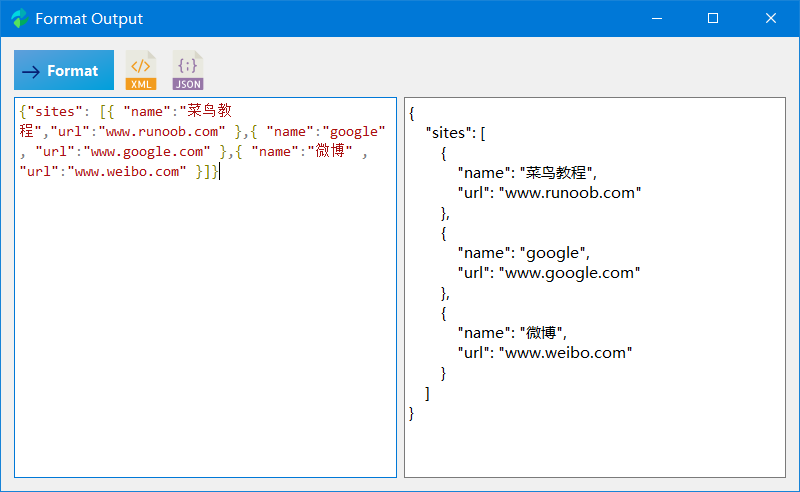
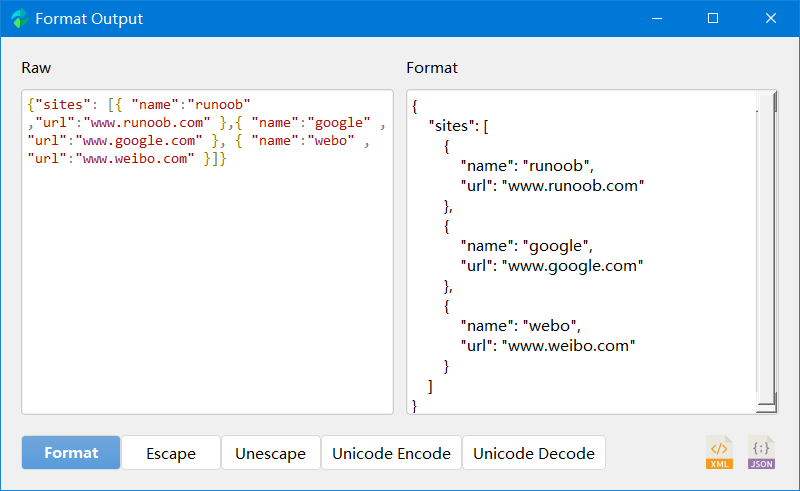
Add xmltodict: Python module that makes working with XML feel like you are working with JSON

diff --git a/ui/resources/html/code.html b/ui/resources/html/code.html
@@ -2,8 +2,8 @@
 <!DOCTYPE html>
 <html lang="en">
 <head>
-    <script type="text/javascript" src="resources/html/google-code-prettify/prettify.js"></script>
-    <link rel="stylesheet" type="text/css" href="resources/html/google-code-prettify/skins/desert.css" />
+    <script type="text/javascript" src="google-code-prettify/prettify.js"></script>
+    <link rel="stylesheet" type="text/css" href="google-code-prettify/skins/desert.css" />
 </head>
 <body onload="PR.prettyPrint()">
     <pre class="prettyprint">

diff --git a/main.py b/main.py
@@ -59,6 +59,7 @@ import peid
 from opensource.apk import *
 import html
 import webbrowser
+import xmltodict
 
 CRYPT = 1
 CODE = 2
@@ -476,7 +477,7 @@ class MainUi(QtWidgets.QMainWindow):
                 _input = _input.encode("utf-8")
                 Log.info("input: %s" % _input)
                 _output = parse.quote(_input)
-                Log.info("outupt: %s" % _output)
+                Log.info("output: %s" % _output)
                 self.ui.codeOutput.setText(_output)
 
             # HTML Encode
@@ -484,7 +485,7 @@ class MainUi(QtWidgets.QMainWindow):
                 _input = self.ui.htmlTabText.toPlainText()
                 Log.info("input: %s" % _input)
                 _output = html.escape(_input)
-                Log.info("outupt: %s" % _output)
+                Log.info("output: %s" % _output)
                 self.ui.codeOutput.setPlainText(_output)
 
             # Base64 Encode
@@ -500,7 +501,7 @@ class MainUi(QtWidgets.QMainWindow):
                         continue
                     strip_output += char
 
-                Log.info("outupt: %s" % _output)
+                Log.info("output: %s" % _output)
                 self.ui.codeOutput.setText(strip_output)
 
             # Hash from text: MD5, SHA1, SHA224, SHA256, SHA384, SHA512
@@ -512,7 +513,7 @@ class MainUi(QtWidgets.QMainWindow):
                     _input = _input.encode("utf-8")
                     _output = code.get_str_hash(_input)
 
-                Log.info("outupt: %s" % _output)
+                Log.info("output: %s" % _output)
                 self.ui.codeOutput.setText(_output)
 
             # Unicode Encode
@@ -520,8 +521,12 @@ class MainUi(QtWidgets.QMainWindow):
                 _input = self.ui.unicodeTabText.toPlainText()
                 Log.info("input: %s" % _input)
                 _output = _input.encode("raw_unicode_escape").decode()
-                Log.info("outupt: %s" % _output)
+                Log.info("output: %s" % _output)
                 self.ui.codeOutput.setText(_output)
+
+            # Reserve funciton
+            elif current_index == 5:
+                pass
 
         except Exception as e:
             self.ui.codeOutput.setText(Helper.font_red(str(e)))
@@ -553,7 +558,7 @@ class MainUi(QtWidgets.QMainWindow):
                 _input = self.ui.htmlTabText.toPlainText()
                 Log.info("input: %s" % _input)
                 _output = html.unescape(_input)
-                Log.info("outupt: %s" % _output)
+                Log.info("output: %s" % _output)
                 self.ui.codeOutput.setPlainText(_output)
 
             # Base64 Decode
@@ -561,7 +566,7 @@ class MainUi(QtWidgets.QMainWindow):
                 _input = self.ui.base64TabText.toPlainText()
                 Log.info("input: %s" % _input)
                 _output = code.base64_to_bytes(_input)
-                Log.info("outupt: %s" % _output)
+                Log.info("output: %s" % _output)
                 self.ui.codeOutput.setText(_output.decode("utf-8"))
 
             # Hash from file: MD5, SHA1, SHA224, SHA256, SHA384, SHA512
@@ -573,8 +578,12 @@ class MainUi(QtWidgets.QMainWindow):
                 _input = self.ui.unicodeTabText.toPlainText()
                 Log.info("input: %s" % _input)
                 _output = _input.encode("utf-8").decode("unicode_escape")
-                Log.info("outupt: %s" % _output)
+                Log.info("output: %s" % _output)
                 self.ui.codeOutput.setText(_output)
+
+            # Reserve funciton
+            elif current_index == 5:
+                pass
 
         except Exception as e:
             self.ui.codeOutput.setText(Helper.font_red(str(e)))
@@ -906,6 +915,7 @@ class FormatUi(QtWidgets.QWidget):
         self.ui.unescapeButton.clicked.connect(self.listen_action_unescape)
         self.ui.unicodeButton.clicked.connect(self.listen_action_unicode)
         self.ui.unicodeDecodeButton.clicked.connect(self.listen_action_unicode_decode)
+        self.ui.covertButton.clicked.connect(self.listen_action_convert)
 
     def listen_action_format(self):
         _input = self.ui.textEdit.toPlainText()
@@ -923,7 +933,7 @@ class FormatUi(QtWidgets.QWidget):
 
         if not _is_json:
             try:
-                _output = self.__log_format_xml(_input)
+                _output = self.__log_format_xml(_input.encode('utf-8'))
                 _is_xml = True
             except Exception as e:
                 _is_xml = False
@@ -956,6 +966,38 @@ class FormatUi(QtWidgets.QWidget):
         _tmp = self.ui.textBrowser.toPlainText()
         _out = _tmp.encode("utf-8").decode("unicode_escape")
         self.ui.textBrowser.setText(_out)
+
+    def listen_action_convert(self):
+        _is_json = False
+        _is_xml = False
+        _error_info = ''
+        _input = self.ui.textEdit.toPlainText()
+        Log.info("input: %s" % _input)
+
+        try:
+            _output = xmltodict.unparse(json.loads(_input), pretty=True)
+            _is_json = True
+        except Exception as e:
+            _is_json = False
+            _error_info = str(e)
+
+        if not _is_json:
+            try:
+                _output = xmltodict.parse(_input)
+                _output = self.__log_format_json(_output)
+                _is_xml = True
+            except Exception as e:
+                _is_xml = False
+                _error_info = str(e)
+
+        if _is_json | _is_xml:
+            Log.info("Format output: %s" % _output)
+            self.ui.textBrowser.setText(str(_output))
+
+        # Print error
+        else:
+            self.ui.textBrowser.setText(Helper.font_red(_error_info))
+            Log.error(_error_info)
 
     def init_ui(self):
         """

diff --git a/ui/format_window.py b/ui/format_window.py
@@ -27,7 +27,8 @@ class Ui_FormatWindow(object):
         self.gridLayout.setVerticalSpacing(20)
         self.gridLayout.setObjectName("gridLayout")
         self.horizontalLayout = QtWidgets.QHBoxLayout()
-        self.horizontalLayout.setSpacing(7)
+        self.horizontalLayout.setContentsMargins(-1, -1, -1, 0)
+        self.horizontalLayout.setSpacing(0)
         self.horizontalLayout.setObjectName("horizontalLayout")
         self.groupBox = QtWidgets.QGroupBox(FormatWindow)
         font = QtGui.QFont()
@@ -130,15 +131,45 @@ class Ui_FormatWindow(object):
         spacerItem = QtWidgets.QSpacerItem(40, 20, QtWidgets.QSizePolicy.Expanding, QtWidgets.QSizePolicy.Minimum)
         self.horizontalLayout.addItem(spacerItem)
         self.label_2 = QtWidgets.QLabel(FormatWindow)
-        self.label_2.setMaximumSize(QtCore.QSize(35, 34))
+        self.label_2.setMaximumSize(QtCore.QSize(35, 35))
         self.label_2.setText("")
         self.label_2.setPixmap(QtGui.QPixmap("ui/resources/pictures/xml.png"))
         self.label_2.setScaledContents(True)
         self.label_2.setAlignment(QtCore.Qt.AlignCenter)
         self.label_2.setObjectName("label_2")
         self.horizontalLayout.addWidget(self.label_2)
+        self.covertButton = QtWidgets.QPushButton(FormatWindow)
+        self.covertButton.setMinimumSize(QtCore.QSize(0, 0))
+        self.covertButton.setFocusPolicy(QtCore.Qt.NoFocus)
+        self.covertButton.setStyleSheet("QGroupBox{\n"
+"    border:0px\n"
+"}\n"
+"QPushButton{\n"
+"    text-align:center;\n"
+"    text-decoration:none;\n"
+"    background:#ffffff;\n"
+"    /*color: #fff;*/\n"
+"    color:#000000;\n"
+"\n"
+"    height: 36px;\n"
+"    width: 36px;    \n"
+"    \n"
+"      border-radius: 18px;\n"
+"    /*border:1px solid #dadada;\n"
+"    white-space: nowrap;*/\n"
+"}\n"
+"\n"
+"QPushButton::checked,QPushButton::hover{\n"
+"    background-image: url(\"ui/resources/pictures/blue_menu.png\");\n"
+"    color:#ffffff;\n"
+"    font-weight: bold;\n"
+"}")
+        self.covertButton.setCheckable(True)
+        self.covertButton.setAutoExclusive(True)
+        self.covertButton.setObjectName("covertButton")
+        self.horizontalLayout.addWidget(self.covertButton)
         self.label = QtWidgets.QLabel(FormatWindow)
-        self.label.setMaximumSize(QtCore.QSize(35, 34))
+        self.label.setMaximumSize(QtCore.QSize(35, 35))
         self.label.setText("")
         self.label.setPixmap(QtGui.QPixmap("ui/resources/pictures/json-file.png"))
         self.label.setScaledContents(True)
@@ -180,5 +211,6 @@ class Ui_FormatWindow(object):
         self.unescapeButton.setText(_translate("FormatWindow", "Unescape"))
         self.unicodeButton.setText(_translate("FormatWindow", "Unicode Encode"))
         self.unicodeDecodeButton.setText(_translate("FormatWindow", "Unicode Decode"))
+        self.covertButton.setText(_translate("FormatWindow", "<>"))
         self.label_4.setText(_translate("FormatWindow", "Raw"))
         self.label_5.setText(_translate("FormatWindow", "Format"))

diff --git a/ui/main_window.py b/ui/main_window.py
@@ -2,7 +2,7 @@
 
 # Form implementation generated from reading ui file 'main_window.ui'
 #
-# Created by: PyQt5 UI code generator 5.15.4
+# Created by: PyQt5 UI code generator 5.15.7
 #
 # WARNING: Any manual changes made to this file will be lost when pyuic5 is
 # run again.  Do not edit this file unless you know what you are doing.
@@ -446,6 +446,23 @@ class Ui_MainWindow(object):
         self.unicodeTabText.setObjectName("unicodeTabText")
         self.horizontalLayout_23.addWidget(self.unicodeTabText)
         self.tabWidget_2.addTab(self.unicodeTab, "")
+        self.padTab = QtWidgets.QWidget()
+        font = QtGui.QFont()
+        font.setFamily("微软雅黑")
+        self.padTab.setFont(font)
+        self.padTab.setStyleSheet("border: 0px;")
+        self.padTab.setObjectName("padTab")
+        self.horizontalLayout_24 = QtWidgets.QHBoxLayout(self.padTab)
+        self.horizontalLayout_24.setContentsMargins(0, 0, 0, 0)
+        self.horizontalLayout_24.setSpacing(0)
+        self.horizontalLayout_24.setObjectName("horizontalLayout_24")
+        self.padTabText = QtWidgets.QTextEdit(self.padTab)
+        font = QtGui.QFont()
+        font.setFamily("微软雅黑")
+        self.padTabText.setFont(font)
+        self.padTabText.setObjectName("padTabText")
+        self.horizontalLayout_24.addWidget(self.padTabText)
+        self.tabWidget_2.addTab(self.padTab, "")
         self.horizontalLayout_16.addWidget(self.tabWidget_2)
         self.verticalLayout.addWidget(self.codeGroupBox)
         self.outputButtonBox = QtWidgets.QGroupBox(self.formGroupBox)
@@ -631,7 +648,7 @@ class Ui_MainWindow(object):
         self.horizontalLayout.addWidget(self.welcomeGroupBox)
         MainWindow.setCentralWidget(self.centralwidget)
         self.menubar = QtWidgets.QMenuBar(MainWindow)
-        self.menubar.setGeometry(QtCore.QRect(0, 0, 1294, 23))
+        self.menubar.setGeometry(QtCore.QRect(0, 0, 1294, 26))
         self.menubar.setObjectName("menubar")
         self.menu = QtWidgets.QMenu(self.menubar)
         self.menu.setObjectName("menu")
@@ -733,6 +750,7 @@ class Ui_MainWindow(object):
         self.tabWidget_2.setTabText(self.tabWidget_2.indexOf(self.base64Tab_2), _translate("MainWindow", "Base64"))
         self.tabWidget_2.setTabText(self.tabWidget_2.indexOf(self.hashTab), _translate("MainWindow", "Hash"))
         self.tabWidget_2.setTabText(self.tabWidget_2.indexOf(self.unicodeTab), _translate("MainWindow", "Unicode"))
+        self.tabWidget_2.setTabText(self.tabWidget_2.indexOf(self.padTab), _translate("MainWindow", "Padding"))
         self.outputButton_1.setText(_translate("MainWindow", "Encrypt"))
         self.outputButton_2.setText(_translate("MainWindow", "Decrypt"))
         self.label_2.setText(_translate("MainWindow", "Base Address"))
